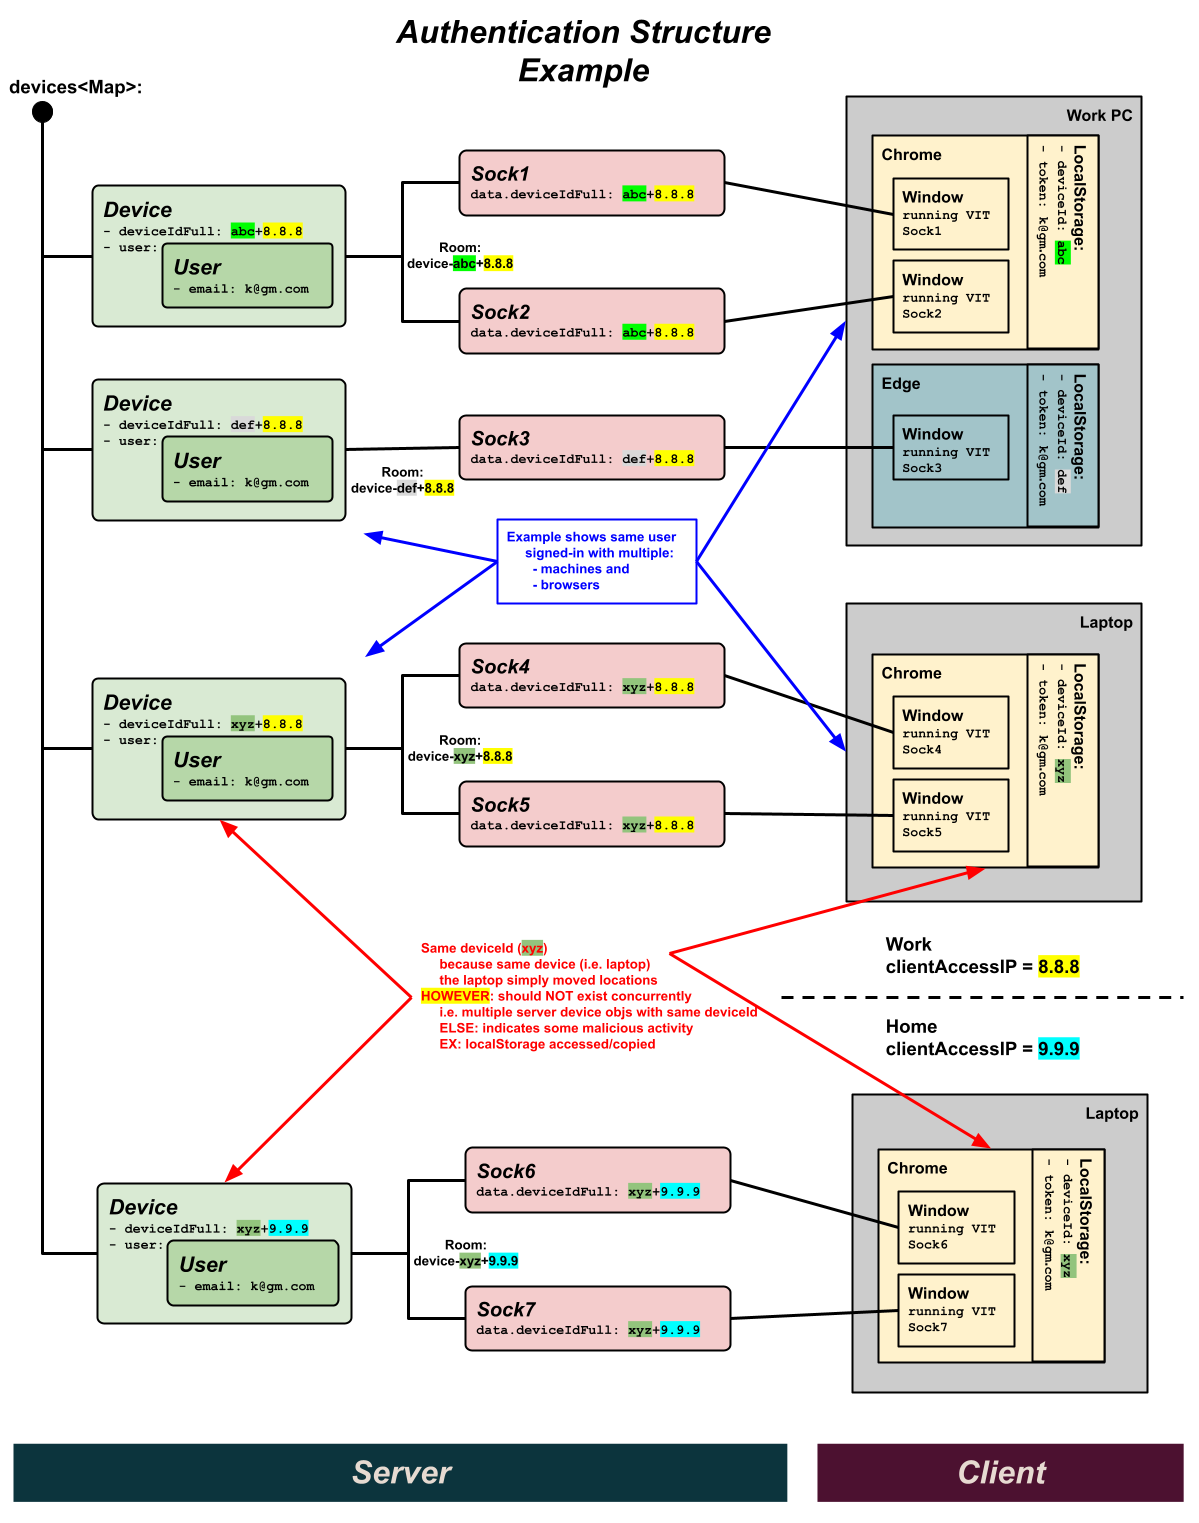
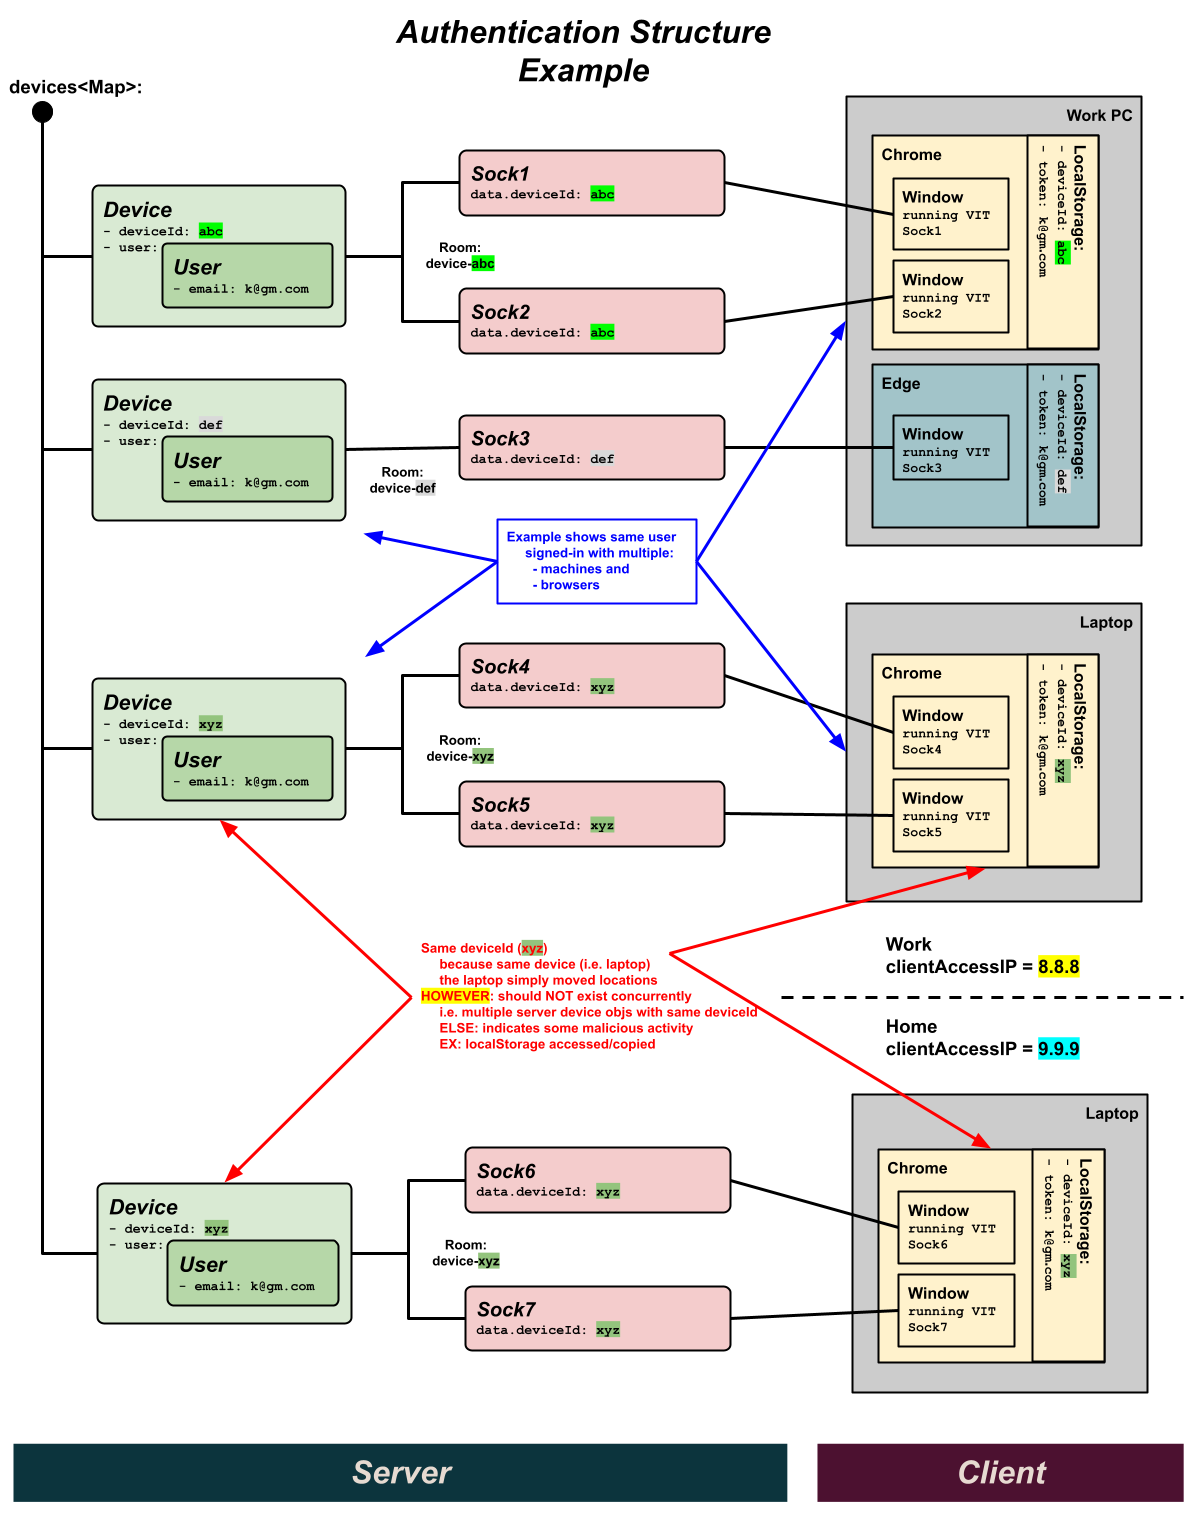
finalize auth.md documentation

diff --git a/pkgs/server/src/auth.js b/pkgs/server/src/auth.js
@@ -19,8 +19,8 @@
  *        > following convenience (consolidation here is possible because we guarantee all sockets of a devices is from the SAME browser instance)
  *        - clientAccessIP: the internet access point for this client (think of as router/WiFi IP)
  *        ~ userAgent:      identifies the specific browser in use <<< NOT INCLUDED (too cryptic)
- *        - os:             the OS-version
- *        - browser:        the browser-version
+ *        - os:             the OS-version (via userAgent)
+ *        - browser:        the browser-version (via userAgent)
  *
  *   - bi-directional relationship between Device(User)/Socket(window)
  *

diff --git a/pkgs/server/src/auth.md b/pkgs/server/src/auth.md
@@ -1,8 +1,5 @@
 # Auth
 
-**AI:** ?? DO NOT publish anything here that would give too much
-insight to a hacker.
-
 This section describes the internals of **visualize-it**'s
 authentication and authorization.
 
@@ -31,6 +28,8 @@ Sign-In Authentication is is accomplished exclusively through a valid
 email.  No password is required.  The email account must be verified
 by supplying a short-lived verification code sent to the email account.
 This confirms the user is the owner of the email.
+
+**AI:** ?? The remainder of this document provides too much insight to a hacker (remove it from public consumption)
 
 Once a verified account is established, an encrypted token is retained
 on the device (in browser localStorage), that allows the user
@@ -77,7 +76,7 @@ that are maintained by our server:
       from the same device will have the same enablement.
 
       In reality, the Device obj is a very thin layer over the User
-      obj _(so as to not polute device keys into the User obj)_.
+      obj _(so as to not pollute device keys into the User obj)_.
 
     - **User obj**: Represents the user with both profile and
       enablement information.
@@ -140,17 +139,17 @@ that are maintained by our server:
       Device(User)/Socket(window)
 
       ```
-      Device (user) --1:M--< Socket (browser windows) with back-ref socket.data.deviceIdFull
+      Device (user) --1:M--< Socket (browser windows) with back-ref socket.data.deviceId
       ```
 
       This relationship is maintained through two aspects:
-      * each socket contains a `deviceIdFull` that references the device/user
+      * each socket contains a `deviceId` that references the device/user
         ```
-        socket.data.deviceIdFull
+        socket.data.deviceId
         ```
       * the device maintains a collection of sockets using a socket.io room
         ```
-        ROOM NAME: device-{deviceIdFull}
+        ROOM NAME: device-{deviceId}
         ```
         - this has the advantage of dynamically auto syncing (by
           socket.io) when sockets are disconnected.
@@ -160,9 +159,6 @@ that are maintained by our server:
 1. To supplement security considerations and account theft,
    **visualize-it**'s auto-authentication process supplements deviceId
    with a verification of the client's IP address.
-
-   This is where deviceIdFull comes into play:
-   `deviceIdFull = deviceId + clientAccessIP`
 
    The authentication process persistently retains all the clientIP
    addresses that a user authenticates on.  Only those IP addresses
@@ -203,200 +199,165 @@ different locations.
 
 ![Auth Structure Example](authStructExample.png)
 
+From the diagram above, you can see that it is possible for the same
+deviceId to alternate clientAccessIP addresses.  A simple example of
+this is when a laptop moves locations, resulting in different network
+access points.
 
-## Malicious Identity Detection
+That being said, this should NEVER exist concurrently.  In other words
+we should never see different browser instances with the same
+deviceId.  This indicates some malicious activity _(for example, the
+localStorage of one user's machine has been accessed and copied to
+another machine)_.
 
-Overall, the risk from Malicious Identity theft is thought to be
-minimal, as it would require physical access to your computer's
-localStorage.  This assumes of course that all
-[XSS](https://en.wikipedia.org/wiki/Cross-site_scripting) doors have
-been shut.  Even should these resources be nefariously accessed, there
-are safegaurds in place that minimize it's usefulness.
+## Malicious Activity
 
-1. ??$$ From the diagram above, you can see that it is possible for the
-   same deviceId to alternate clientAccessIP addresses.  A simple example
-   of this is when laptop moves locations, resulting in different network
-   access points.
-   
-   That being said, this should NEVER exist concurrently.  In other
-   words we should never see multiple active device objects with the
-   same deviceId.  This indicates some malicious activity.  For
-   example, the localStorage of one user's machine has been accessed
-   and copied to another machine.
-   
-   The system will actively check for this scenerio, and mark it in
-   such a way that requires the user to re-authenticate.
-   
-   - ??$$ I think this IS the PANIC button AUTOMATED
-   - ??$$ HOW
-   - ??$$ WHERE (WHAT CODE)
-     * I think it is in preAuthenticate()
-       JUST before it starts to create a new Device
-       >>> actually it could be in the createDevice() which is only invoked in preAuthenticate()
-           ... just before it catalogs the device
-               ALSO enhance createDevice() to setup association to socket <<< may be tricky for existing devices ... possibly look it up and use existing
-           ... the check could do a search and insure offending devices do NOT exist
-               AND do the initiative
-               ALSO returns null (when issue was found)
-               INVOKER would need to interpret undefined
+Overall, the risk of visualize-it account impersonation is minimal,
+due to both the minuscule opportunity for the actual theft, and the
+safeguards in place to minimize the usefulness of stolen items
+discussed here.
 
-   - The varient of this scenerio is when the malicious activity
-     occurs at seperate times from when the real user is active.
+Any attempt to steal a user's account identity, involves the theft of
+two localStorage items:
 
-     BAD: Currently, this cannot be detected.  ??$$ can we address this
-     
+- deviceId: a unique identifier of a browser instance, maintained
+  by our client app (a randomly generated ID).
 
-2. ??$$ A variant of the above malicious activity can manifest itself
-   if this occurs within the same network (i.e. the same
-   clientAccessIP address).
+- token: an encoded rendering of the sign-in credentials (email, and
+  guestName)
 
-   This manifests itself with the socket connections of the malicious
-   user being grouped in to the same Device object instance as the
-   real user.
+Malicious access to localStorage can occur in two separate ways:
 
-   This can manifest itself in two ways:
+1. Physical access to your computer (through the browser devTools).
+   While this threat is minimal, the user must protect access to their
+   computer.
 
-   - Concurrently: When both the real user and the malitious user is
-     active at the same time.
+2. Vulnerabilities in application logic allowing
+   [XSS](https://en.wikipedia.org/wiki/Cross-site_scripting).  This
+   threat is also minimal, as there are no XSS vulnerabilities known
+   to be present in visualize-it.
 
-     * ??$$ Assuming that the IDE is being used in this scenerio
-       (where presumably the most damage can occur - IS THIS TRUE),
-       the system will issue warnings to all parties that the IDE
-       should NOT be concurrently active in multiple sessions (because
-       no synchronization occurs).  This is an indicator to the real
-       user that they should activate the PANIC button (??$$ detail
-       what this does).
+### Pre Authentication
 
-     * ??$$ There is a minor indication that this has occured - if one
-       user signs-out, all users of the device will be signed-out.
+In visualize-it, authentication is closely associated to the
+websocket.  Because a websocket is established at the very beginning
+of a visualize-it app instance, it goes through a pre-authentication
+process to establish the credentials of the user who is running the
+app.  This could result in either an authorized signed-in user, or a
+guest user that is not yet signed-in.
 
-       While this is certainly a crucial indicator to the real user,
-       it is doubtful that the malicious user would initiate a
-       sign-out.
+There are two cases where visualize-it will automatically grant access
+to an authorized signed-in user at application start-up time:
 
-       ?? NOT TRUE IF WE IMPLEMENT BETTER SIGN-OUT: Even when the real user signs-out, it doesn't do all much to
-       the malicious user.  They are merely signed-out - but their
-       localStorage credentials are NOT updated.  Currently
-       localStorage is only updated on the client socket that
-       initiated the sign-out request (not the malicious user).  EVEN
-       if this were addressed, the malicious user could simply
-       manually re-instate the localStorage.
+1. **AUTO-ACCESS-1**: When the user launches an additional visualize-it app
+   instance (i.e. an additional browser window running the
+   visualize-it app).  Because they are already running the app in a
+   separate browser window, we simply accept those credentials.  This
+   makes sense because visualize-it auto-syncs the user credentials of
+   all browser windows.
 
-   - Independently: When the malicious user is active at seperate
-     times of the real user.
+   **ACCESS**: deviceId (localStorage)
 
-     BAD: Currently, this is NOT detectable. ??$$ can we fix this?
+   This is detected when the same localStorage deviceId is in use.
 
-   Overall, this is thought to be minimal risk, as the attacker
-   represents an "inside" job ... thoughts?
+   **RISK**: _NO RISK_
 
-?? Overall, a prevention technique to minimize malicious activity (if
-that is a problem for a user) is to sign-out frequently.  This process
-employs safegaurds that internally reset any saved credentials, making
-them invalid. ?? WHEN sign-out does the proper things (sign-out ALL
-users of this account, spanning multiple devices, and clear accepted
-validations from DB, and reset deviceId)
+   There is NO risk in this scenario BECAUSE an innovative test is
+   performed that confirms the same browser instance is in-use.  
 
+   Even if a hacker has stolen the localStorage deviceId, they will
+   fail this "browser instance" test, and will be isolated as a
+   "guest" user.
 
-??$$ Even if/when all these vulnaribilities are plugged, what prevents
-the malitious user from simply going back to the well and re-stealing
-the current active localStorage items.  It kinda depends on if this theft
-was done remotely (via XSS) or if it was from access to the physical machine?
+   In addition, the account involved will be emailed a "Malicious
+   Activity Detected" notification with instructions on how to "regain
+   control".
 
-### Proactive Prevention of Malicious Activity
+   Please note that in this scenario it is not possible to distinguish
+   which session is the hacker and which is the real user.  As it turns
+   out, that distinction is not necessary, because the account email is
+   used to give the notification.
 
-??$$ CUR POINT
+2. **AUTO-ACCESS-2**: When the user launches the first visualize-it app
+   instance.  If they have previously signed-in on the given
+   deviceId/clientAccessIP, they will be granted access as that user.
 
-??$$ rather than a Panic Button (Force Re-Authentication)
-     I think I can just do necessary things in an explicit sign-out process
-     1. force ALL active users of that email to sign-out
-        ... done via active socket connections
-        ... EVEN spans multiple Devices (for good measure)
-     2. for the initiatator, reset the deviceID
-        ... this will thwart any thief, as their copied deviceId is no longer valid
-     3. clear the acceptable DB entries for that email
-        ... this will thwart any thief, as their copied deviceId is no longer valid
-     >> this way, if we need to communicate a potential issue (to the user), we can tell them to simply sign-out and back in again
-        ... WORDING: by signing-out you reset some internals that will help to keep your account secure
-     >> ALSO, may want to FORCE logout on some timeout of token
+   **ACCESS**: deviceId & token (both localStorage)
 
-- Maintain a persistent DB to:
-  * ?? retain acceptable (i.e. authenticated) email/deviceId/clientAccessIP pairs
-  * ?? mark tainted deviceIds <<< PROB NOT NEEDED ... if we simply CLEAR table above
+   This is driven by the localStorage token variable that contains a
+   verified account (email).
+
+   **RISK**: _MINIMAL_
+
+   If a hacker steals BOTH the deviceId/token
+   -AND- the hacker is on a previously authenticated clientAccessIP (either an insider in a company, or an access point previously used by real user)
+   -THEN- they ARE IN (without any other checks)
+
+   The risk is minimal because the hacker is typically NOT going to be
+   on the same internet access point of the real user.
 
 
-- NOTES:
-  * CURRENTLY deviceId is only retrieved in preAuthenticate() for the sole purpose of cataloging the Device object
-    WE ALWAYS catalog the Device object in-memory ... at minimum with a Guest user
-  * ALSO we only can get to the sign-in screen FOR guests
-  * THIS IS OK
+### Detection
 
-- PreAuthenticate:
-  * get accetable deviceId that is NOT on the tainted list                         <<< a MOD to our current process
-    ... will itterativally ask for deviceId to be re-set (on the client)
-  * get token (email) ... as normal
-  * if email/deviceId+clientAccessIP IS NOT in acceptable DB: NO PRE-AUTHENTICATE  <<< a MOD to our current process
-    ... this WAS: isEmailAuthenticatedOnIP(emailFromToken, clientAccessIP)
-    ... NOW is:   isEmailPreAuthenticatedOnDB(email, deviceIdFull);
-  * otherwise: WE ARE IN
+Malicious account impersonation can only be systematically detected
+when the hacker is accessing the system at the same time the real user
+is active.  This is called **Concurrent Access**.  In other words, the
+real user and the hacker are active at the same time.  This is
+manifest through **AUTO-ACCESS-1** (see above), when an email is sent
+to the account holder.
 
-- SignIn:
-  * this process is unchanged (I THINK)
-    ... it continues to authenticate a new user email (as always)
-    ... the Device/User pre-exsits: we will morph it into a signed-in user
-
-> CALL IT: Force Re-Authentication (NOT Panic)
-- ?? Panic Button Process: <<< FORCE re-authentication for this email account (on any location and forced new deviceId)
-  * PARAMS: 
-    - logically a socket, which in turn identifies
-      * email of user  <<< KEY
-      * deviceId       <<< KEY
-      * clientAccessIP ... UNUSED (I think)
-  * PROCESS:
-    - mark deviceId as tainted
-      * which causes it to be regenerated automatically
-      * and invalidates any stored token (because will NOT match DB authenticated pairs)
-        ... causing them to have to re-authenticate (i.e. re-validate their email)
-    - optionally clear the PreAuthenticatedOnDB entries for this user (email)
-      ... could leave them but they are auto tainted
-    - auto sign-out ANY user on ANY device with this email account
-      >>> OR is it with this deviceId (I think this is appropriate)
-          - UNSURE: if so, we may want to insure the deviceId is NOT tainted in the sign-in process
-                    ... so as to do what?
-      ... this merely changes all in-memory user stores for this email (both client/server)
-      ... EVEN SO, they MUST sign-in (and email verify) to get it back
-      ... IF they simply REFRESH browser (going through preAuthenticate), their deviceId has been tainted, so it will be re-set -and- they start out as Guest
-          ?? I-THINK-THIS-IS-SOLVED: somehow must force MORE than just a sign-in BECAUSE we currently don't do anything with deviceId/clientAccessIP in sign-in process
+The variant of **Concurrent Access** is when the malicious activity
+occurs at separate times from when the real user is active.  This is
+called **Independent Access**.  Malicious account impersonation **can
+not be detected** when the hacker is active at separate times from the
+real user.  That being said, this threat is minimal, because to be
+affective, it requires all the conditions listed in **AUTO-ACCESS-2**
+(see above).
 
 
-## Work In Progress
+### Regaining Control
 
-1. **CONSIDER** - If a malicious user get's access to your localStorage
-   and copies 2 items (deviceId/token) they can steal your identity.
+If a malicious account impersonation occurs, the real user can regain
+control (ousting the hacker) by simply signing-out of their account.
 
-   **FIX** (at least a step in the right direction): supplement with
-     clientIP.
-   
-   - Risk is minimal, unless user has access to your computer. <<< HOWEVER is there is a XSS hole I don't know about?
-     * Public WiFi is not an issue.
-     * Shared public computer is _(they MUST sign-off when done)_.
+This is basically the instructions that are emailed to the account
+when malicious activity is detected.
 
-   - Need a more sophisticated process with private/public key or
-     something else (like clientIP).
+In detail this is what is happening
 
-   - NO (too intrusive): A **Partial FIX** would be to require email verification on each sign-in.
-     * BIG hassle to the user
-     * We could do this only on first access within the device.
+1. sign-in
 
-   - ?? YES: A **Better FIX** would be to mix-in the client IP address _(in
-     addition to the deviceId)).  This would greatly minimize the
-     problem _(see next point)_.
+   If you are not currently signed-in, do so now - this verifies that
+   you are the owner of this email account.
 
-   - HMMM: Also could periodically check if same email is being used across
-     devices.  This may be suspicious, and mark this email (in our DB)
-     to require re-validation.  THIS NO NO GOOD ... once re-validated,
-     then the hacker is IN again ... hmmm.
+2. sign-out immediately
 
+   This forces any active hacker (of this account email) to be
+   signed-out - in such a way that they can no longer regain access, in
+   their current state.
+
+   It clears the persisted validated access points (clientAccessIP).
+
+   It resets the real user's browser deviceId.  The hacker will no
+   longer be auto-authenticated (using their current settings).
+
+3. Everything is now back to normal (and has been re-secured).
+   Go ahead and sign-in as you normally would.
+
+   For the hacker to regain access, they would need to repeat their prior steps 
+
+   1. re-steal both the deviceId/token
+
+      This theft is thought to rare, as it requires physical access to
+      the computer's localStorage (assuming all XSS doors have been
+      shut)
+
+      Remember, the deviceId changes frequently (on sign-out).
+
+   2. access the system when the real user is NOT actively signed-in
+
+
+## Misc Code Snippets
 
 1. how to access clientIP
 
